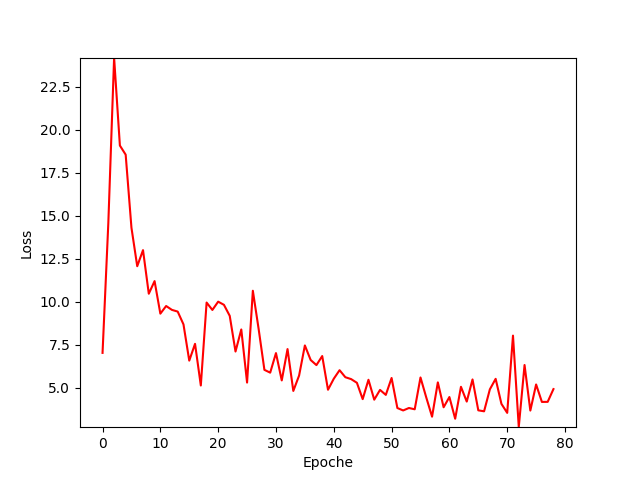
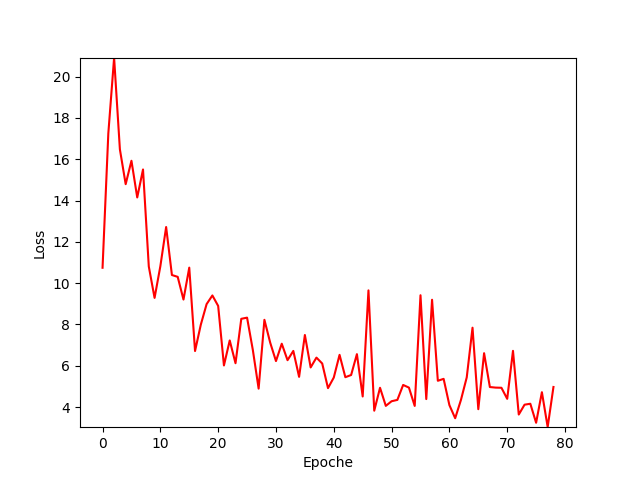
한번빼고(local minima) 다 통과하는 2_4 model 완성. gap 11에서 테스트해도 통과할듯

diff --git a/controllers/pipe_section_train_2/pipe_section_train_2.py b/controllers/pipe_section_train_2/pipe_section_train_2.py
@@ -348,9 +348,9 @@ def Reward(state,next_state):
 
         
         if (state[j * INPUT_ONE_FRAME + 4] > 0.8
-        and state[j * INPUT_ONE_FRAME + 4] < 1.2
+        and state[j * INPUT_ONE_FRAME + 4] < 2
         and state[j * INPUT_ONE_FRAME + 7] > 0.8
-        and state[j * INPUT_ONE_FRAME + 7] < 1.2
+        and state[j * INPUT_ONE_FRAME + 7] < 2
         ):   
             if state[j * INPUT_ONE_FRAME + 4] < state[j * INPUT_ONE_FRAME + 7]:
                 if action == 1:
@@ -363,9 +363,9 @@ def Reward(state,next_state):
                 else:
                     total -= 1    
         if (state[j * INPUT_ONE_FRAME + 4] > 0.8
-        and state[j * INPUT_ONE_FRAME + 4] < 1.0
+        and state[j * INPUT_ONE_FRAME + 4] < 2
         and state[j * INPUT_ONE_FRAME + 7] > 0.8
-        and state[j * INPUT_ONE_FRAME + 7] < 1.0
+        and state[j * INPUT_ONE_FRAME + 7] < 2
         and state[j * INPUT_ONE_FRAME + 2] < 0.8
         and state[j * INPUT_ONE_FRAME + 3] < 0.8
         and state[j * INPUT_ONE_FRAME + 8] < 0.8
@@ -373,6 +373,22 @@ def Reward(state,next_state):
         ):
             if action == 0:
                 total += 1
+
+        if (state[j * INPUT_ONE_FRAME + 2] > 4
+        or state[j * INPUT_ONE_FRAME + 3] > 4
+        or state[j * INPUT_ONE_FRAME + 4] > 5
+        ):
+            if (action == 0
+            or action == 1):
+                total -= 1
+                
+        if (state[j * INPUT_ONE_FRAME + 7] > 4
+        or state[j * INPUT_ONE_FRAME + 8] > 4
+        or state[j * INPUT_ONE_FRAME + 9] > 5
+        ):
+            if (action == 0
+            or action == 2):
+                total -= 1
         
          
 

diff --git a/controllers/CL_TEST_8_action 5/CL_TEST_8_action 5.py b/controllers/CL_TEST_8_action 5/CL_TEST_8_action 5.py
@@ -1,4 +1,4 @@
-CL_MODEL = "Curriculum Yes ob pipe_section 2_3"
+CL_MODEL = "Curriculum Yes ob pipe_section 2_4"
 CL_KIND = f"{CL_MODEL}_test_pipe_section_0"
 TEST_COUNT = 10
 INPUT_SENSOR = 8
